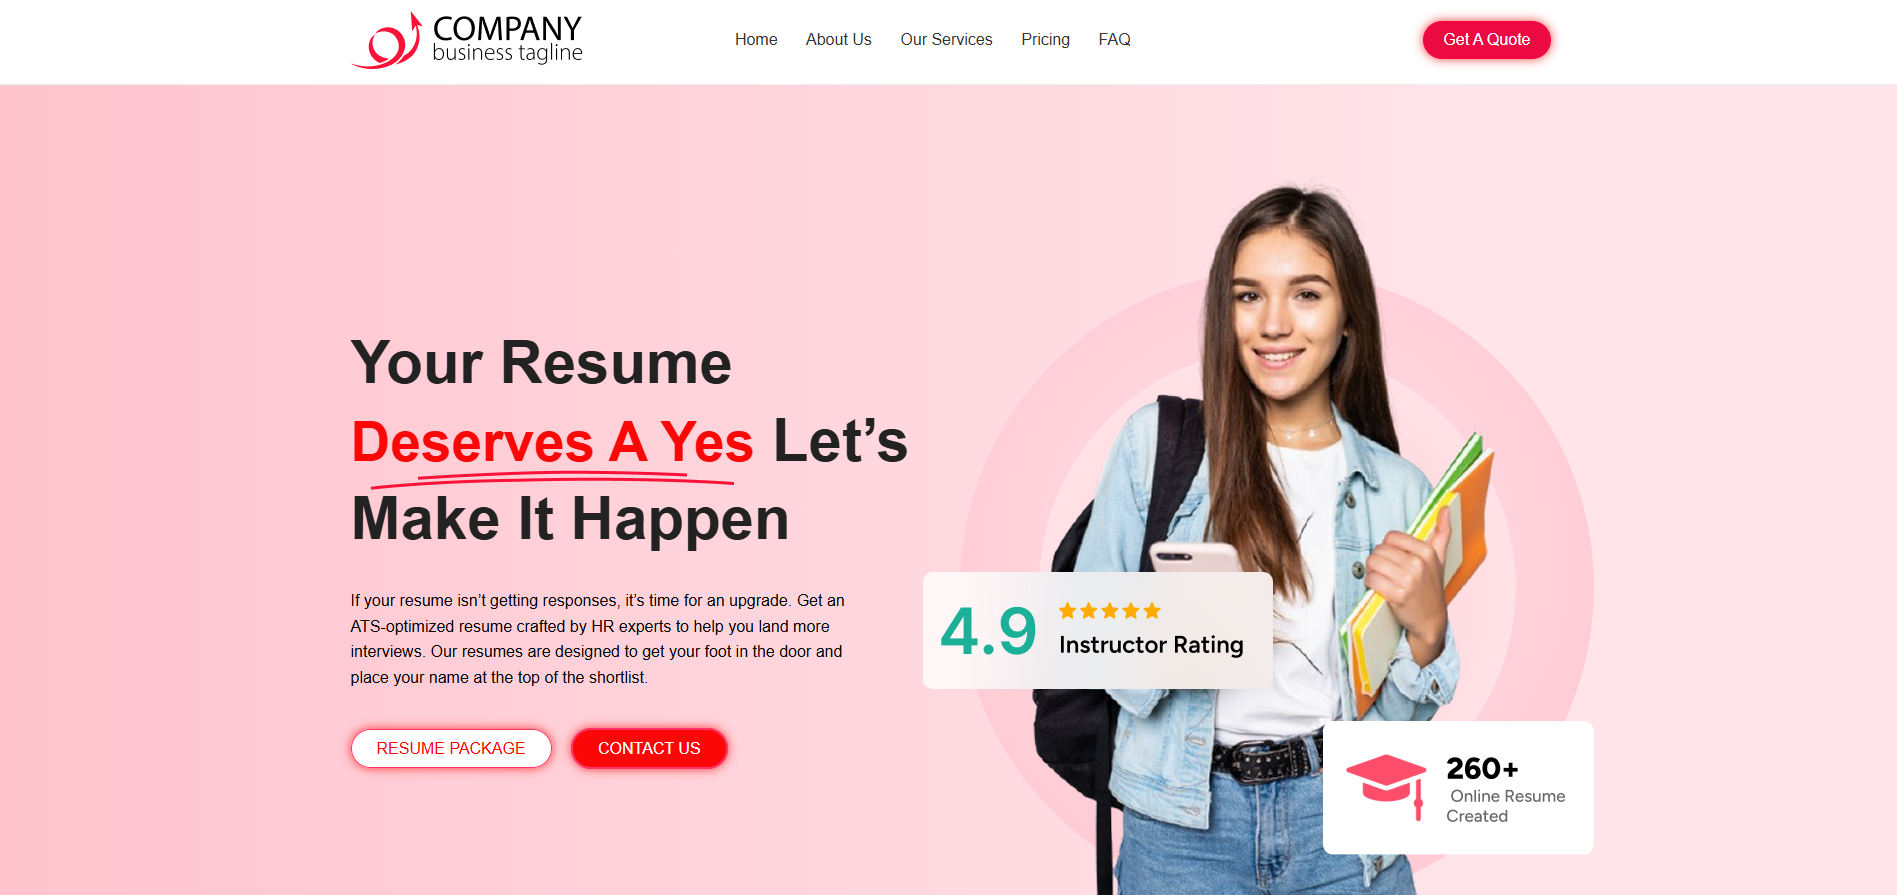
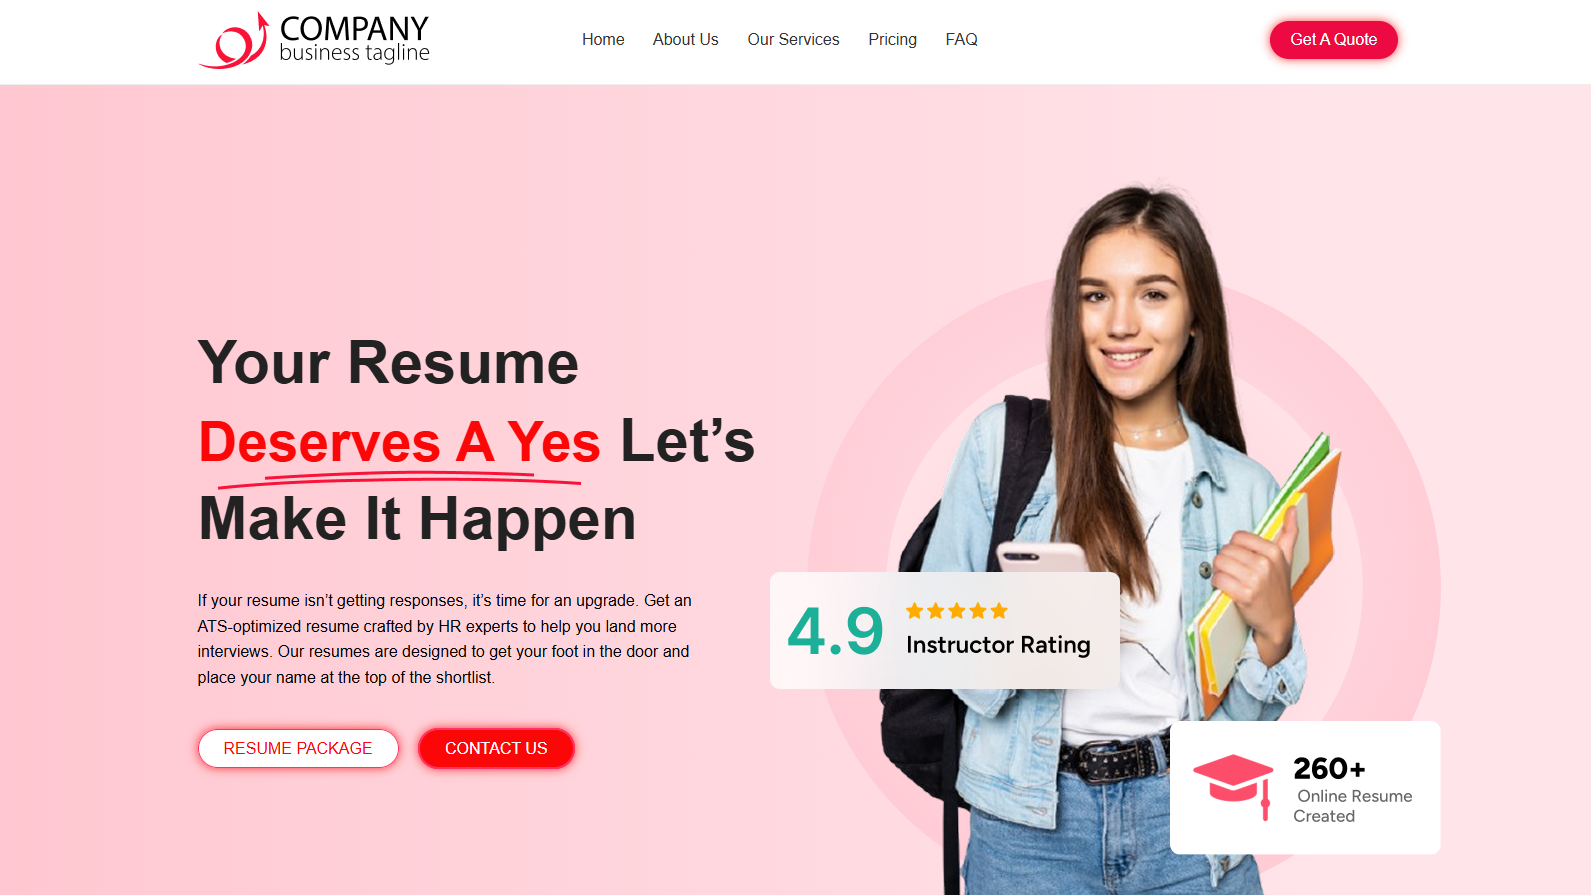
Updated code

diff --git a/index.html b/index.html
@@ -254,7 +254,7 @@
     <div id="Projects" class="  py-16">
         <h2 class="text-3xl font-bold text-center text-blue-600 mb-12">Projects</h2>
         <div class="  gap-8 flex flex-row justify-center items-center flex-wrap">
-            <div class=" rounded-xl shadow-md p-8 font-bold text-center">
+            <div class=" rounded-xl shadow-md p-8 w-lg font-bold text-center">
                 <h2 class="font-medium mb-6">Crypto Dashboard</h2>
                 <img src="images/crypto.png" alt="" class="w-md h-auto mx-auto mb-6">
                 <!-- <div class="bg-blue-600 text-white rounded-xl p-2 font-semibold text-md hover:bg-blue-500">Project
@@ -278,7 +278,7 @@
             <div class="mx-5 border-l border-gray-300 self-stretch"></div>
 
 
-            <div class="bg-white rounded-xl shadow-md p-12 font-bold text-center">
+            <div class="bg-white rounded-xl  w-lg  shadow-md p-12 font-bold text-center">
                 <h2 class="font-medium mb-6">Movies Search</h2>
                 <img src="images/movies.png" alt="" class="w-md h-auto mx-auto mb-6">
                 <!-- <div class="bg-blue-600 text-white rounded-xl p-2 font-semibold text-md hover:bg-blue-500">Project
@@ -300,7 +300,7 @@
 
             
             
-            <div class="bg-white rounded-xl shadow-md p-12 font-bold text-center mt-20">
+            <div class="bg-white rounded-xl  w-lg  shadow-md p-12 font-bold text-center mt-20">
                 <h2 class="font-medium mb-6">Internship Project</h2>
                 <img src="images/Screenshot (79).png" alt="" class="w-md h-auto mx-auto mb-6">
                 <!-- <div class="bg-blue-600 text-white rounded-xl p-2 font-semibold text-md hover:bg-blue-500">Project
@@ -313,6 +313,27 @@
 
                     <!-- GitHub source code link -->
                     <a href="https://github.com/purushottam-deore/intern1.git" target="_blank"
+                        class="bg-purple-600 text-white rounded-xl px-4 py-2 font-semibold text-md hover:bg-purple-500 transition">
+                        Source Code
+                    </a>
+                </div>
+            </div>
+
+             <div class="mx-5 border-l border-gray-300 self-stretch"></div>
+
+            <div class="bg-white rounded-xl w-lg shadow-md p-12 font-bold text-center mt-20">
+                <h2 class="font-medium mb-6">Prescripto</h2>
+                <img src="images/priscipto.png" alt="" class="w-md h-auto mx-auto mb-6">
+                <!-- <div class="bg-blue-600 text-white rounded-xl p-2 font-semibold text-md hover:bg-blue-500">Project
+                    Details</div> -->
+                <div class="flex flex-row justify-between pt-4">
+                    <a href="https://prescripto-frontend-olms.onrender.com/" target="_blank"
+                        class="bg-purple-600 text-white rounded-xl px-4 py-2 font-semibold text-md hover:bg-purple-500 transition">
+                        See live
+                    </a>
+
+                    <!-- GitHub source code link -->
+                    <a href="https://github.com/purushottam-deore/prescripto" target="_blank"
                         class="bg-purple-600 text-white rounded-xl px-4 py-2 font-semibold text-md hover:bg-purple-500 transition">
                         Source Code
                     </a>
